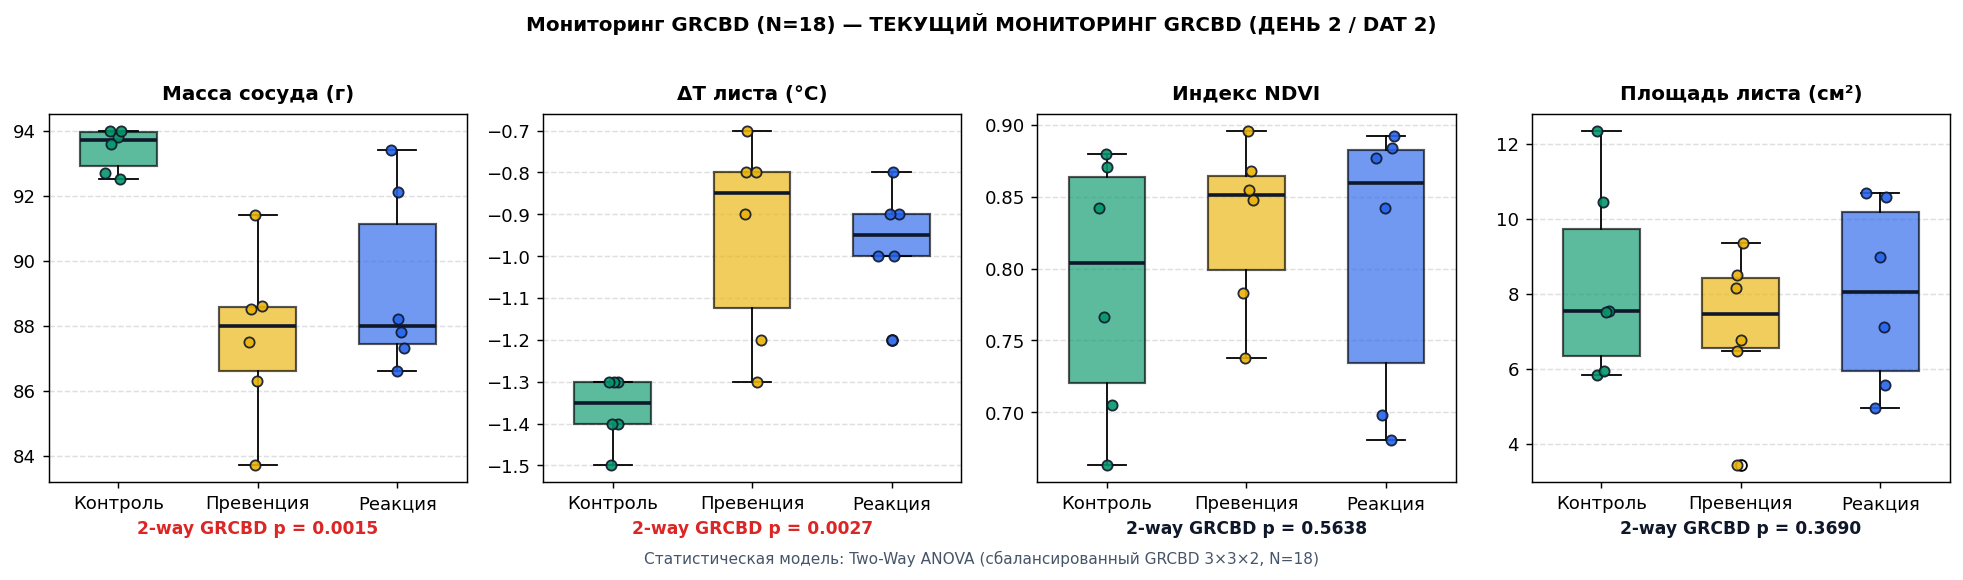
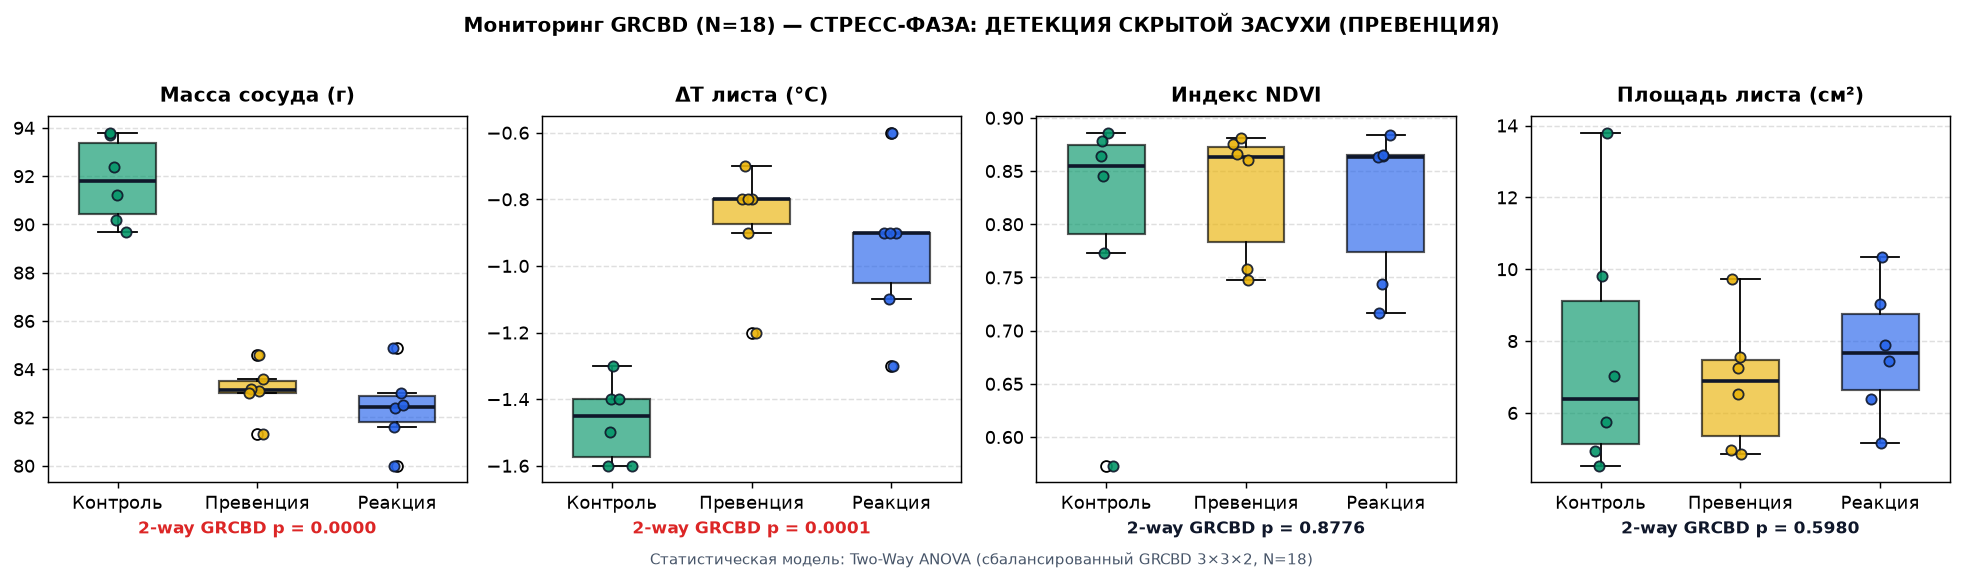
data(wave2): add Day 3 (2026-11-12, DAT 3) measurements, 38 images, ANOVA report & prevention trigger activation

diff --git a/docs/wave2/ANOVA_LATEST_REPORT.md b/docs/wave2/ANOVA_LATEST_REPORT.md
@@ -1,8 +1,11 @@
 # 📊 СТАТИСТИЧЕСКИЙ ОТЧЕТ МОНИТОРИНГА ВОЛНЫ 2
-**Статус сессии:** 📊 ТЕКУЩИЙ МОНИТОРИНГ GRCBD (ДЕНЬ 2 / DAT 2)  
+**Статус сессии:** 🚨 СТРЕСС-ФАЗА: ДЕТЕКЦИЯ СКРЫТОЙ ЗАСУХИ (ПРЕВЕНЦИЯ)  
 **Объем выборки:** N = 18 уникальных сосудов GRCBD (план: 3 когорты × 3 блока × 2 повторности)  
 **Режим статистической модели:** Two-Way ANOVA (сбалансированный GRCBD 3×3×2, N=18)  
-**Вердикт алгоритма:** Замер 18/18 сосудов выполнен (оценок тургора: 18/18; масса p=0.0015, ΔT p=0.0027). Критерии стресс-триггеров не достигнуты; мониторинг продолжается.  
+**Вердикт алгоритма:** Термографический триггер подтвержден статистически (2-way GRCBD) и по кворуму (4/6 с ΔΔT ≥ +0.6°C): перегрев Превенции (-0.87°C против Контроля -1.47°C; ΔT F=34.576, p=0.0001) при сохранённом тургоре Реакции (балл 3.8). Превентивный полив активирован!  
+
+> [!NOTE]
+> Во входной выборке обнаружено и свёрнуто 54 дублирующих записей `pot_id` (использована последняя запись по каждому сосуду).
 
 ---
 
@@ -10,11 +13,11 @@
 
 | Физиологический параметр | Режим модели | Контроль (M ± SE) | Превенция (M ± SE) | Реакция (M ± SE) | Когорта (F) | p (когорта) | Блок (F) | p (блок) | НСР₀₅ |
 | :--- | :--- | :---: | :---: | :---: | :---: | :---: | :---: | :---: | :---: |
-| **Масса сосуда (г)** | Two-Way ANOVA (GRCBD 3×3×2) | 93.43 ± 0.27 | 87.67 ± 1.05 | 89.23 ± 1.15 | 14.719 | **0.0015** | 4.167 | 0.0524 | 2.486 |
-| **ΔT листа (°C)** | Two-Way ANOVA (GRCBD 3×3×2) | -1.37 ± 0.03 | -0.95 ± 0.1 | -0.97 ± 0.06 | 12.265 | **0.0027** | 1.612 | 0.2521 | 0.215 |
-| **Индекс NDVI** | Two-Way ANOVA (GRCBD 3×3×2) | 0.79 ± 0.04 | 0.83 ± 0.02 | 0.81 ± 0.04 | 0.611 | **0.5638** | 5.814 | 0.0239 | 0.089 |
-| **Площадь листа (см²)** | Two-Way ANOVA (GRCBD 3×3×2) | 8.27 ± 1.06 | 7.11 ± 0.86 | 7.98 ± 1.01 | 1.116 | **0.369** | 14.083 | 0.0017 | 1.829 |
-| **Балл тургора (1–4)** | Two-Way ANOVA (GRCBD 3×3×2) | 4.0 ± 0.0 | 4.0 ± 0.0 | 4.0 ± 0.0 | 0.0 | **1.0** | 0.0 | 1.0 | 0.0 |
+| **Масса сосуда (г)** | Two-Way ANOVA (GRCBD 3×3×2) | 91.83 ± 0.71 | 83.13 ± 0.44 | 82.4 ± 0.66 | 104.862 | **0.0** | 4.321 | 0.0484 | 1.639 |
+| **ΔT листа (°C)** | Two-Way ANOVA (GRCBD 3×3×2) | -1.47 ± 0.05 | -0.87 ± 0.07 | -0.95 ± 0.1 | 34.576 | **0.0001** | 3.667 | 0.0684 | 0.177 |
+| **Индекс NDVI** | Two-Way ANOVA (GRCBD 3×3×2) | 0.8 ± 0.05 | 0.83 ± 0.02 | 0.82 ± 0.03 | 0.132 | **0.8776** | 1.221 | 0.3394 | 0.127 |
+| **Площадь листа (см²)** | Two-Way ANOVA (GRCBD 3×3×2) | 7.64 ± 1.45 | 6.82 ± 0.74 | 7.71 ± 0.76 | 0.545 | **0.598** | 5.348 | 0.0295 | 2.151 |
+| **Балл тургора (1–4)** | Two-Way ANOVA (GRCBD 3×3×2) | 4.0 ± 0.0 | 4.0 ± 0.0 | 3.83 ± 0.17 | 1.0 | **0.4053** | 1.0 | 0.4053 | 0.308 |
 
 ---
 
